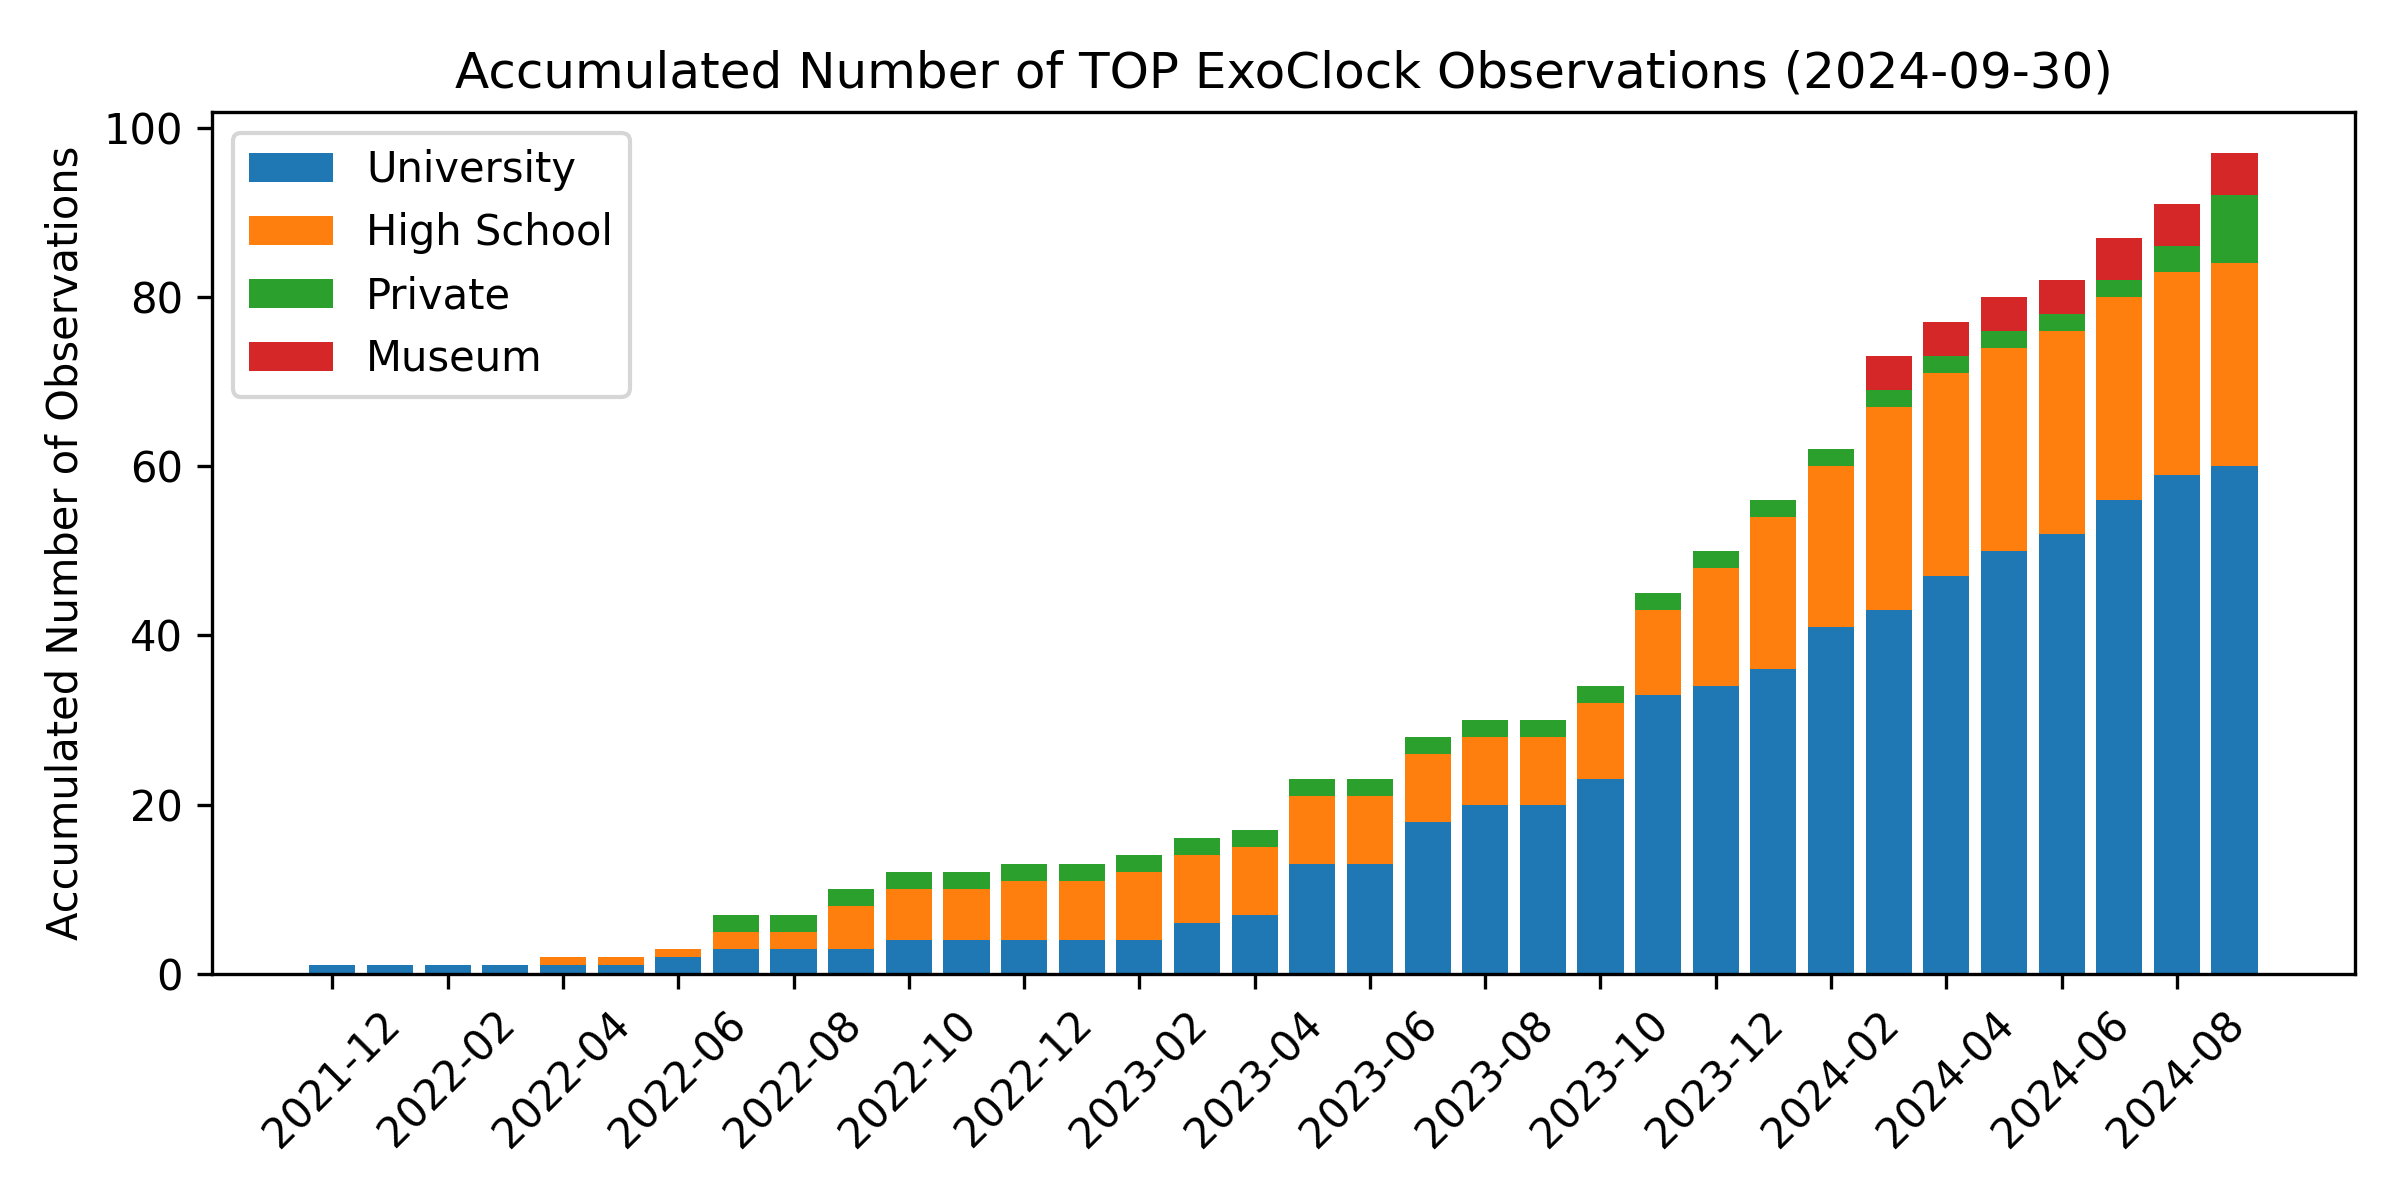
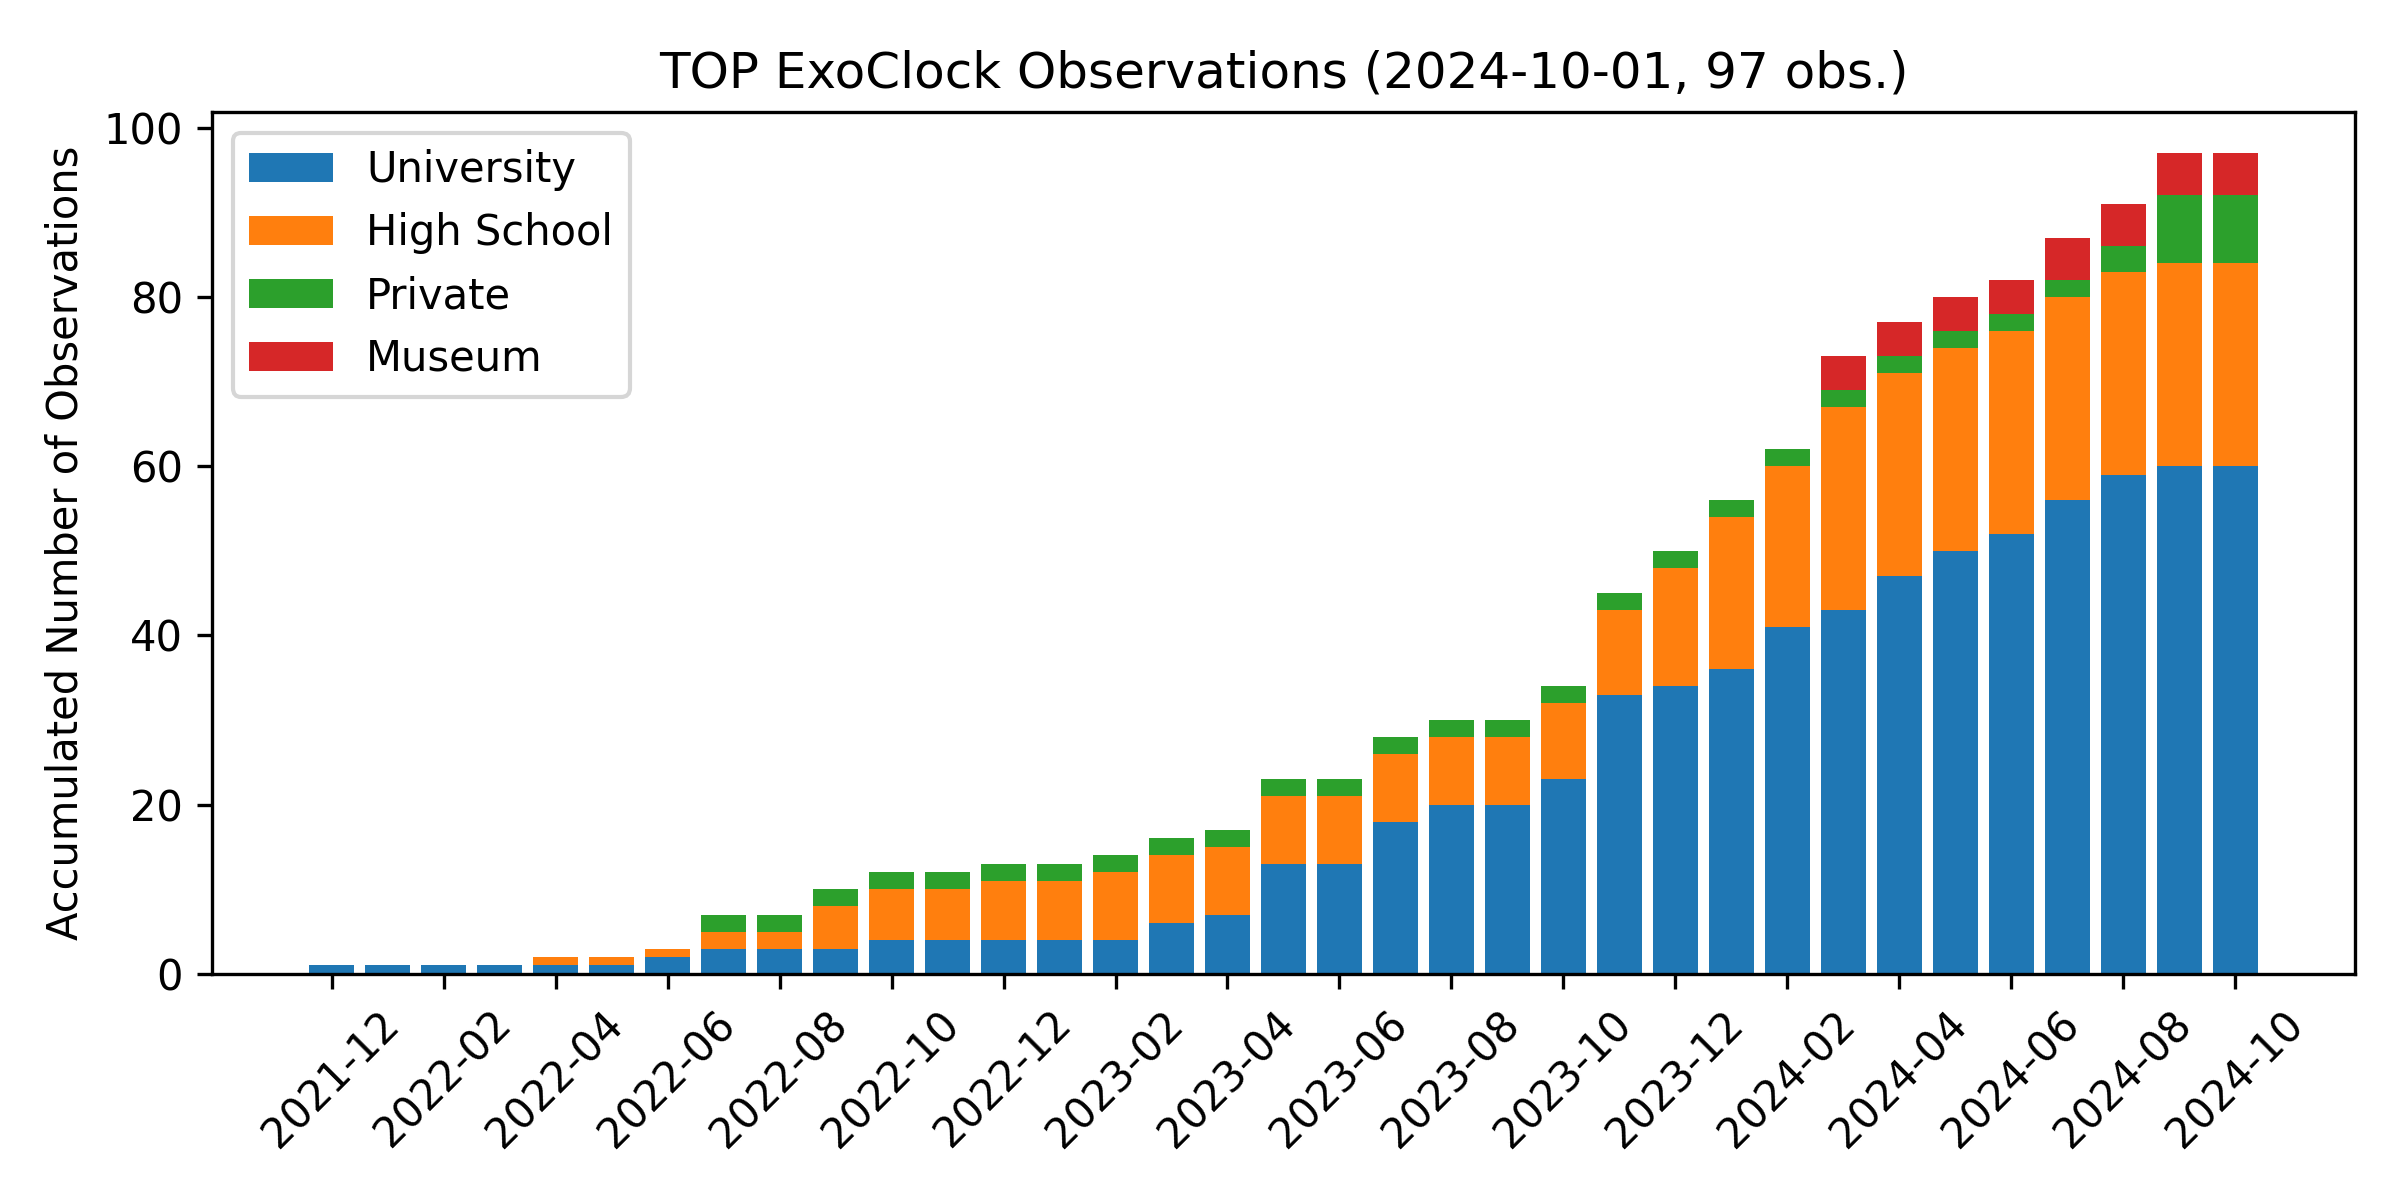
bar chart update
Add the total number of observations of the whole TOP on the bar chart.

Changed region(s): [[0.125, 0.1233, 0.9688, 0.9558], [0.1875, 0.0308, 0.875, 0.0925], [0.0938, 0.925, 0.125, 0.9558]]

diff --git a/observations/Make_BarChart.py b/observations/Make_BarChart.py
@@ -106,7 +106,7 @@ class TransitObservationAnalysis:
 
         # Set plot title and axis labels
         current_date = datetime.now().strftime("%Y-%m-%d")
-        ax.set_title(f'Accumulated Number of TOP ExoClock Observations ({current_date})')
+        ax.set_title(f'TOP ExoClock Observations ({current_date}, {int(bottom.iloc[-1])} obs.)')
         ax.set_ylabel('Accumulated Number of Observations')
 
         # Adjust x-axis ticks and labels
